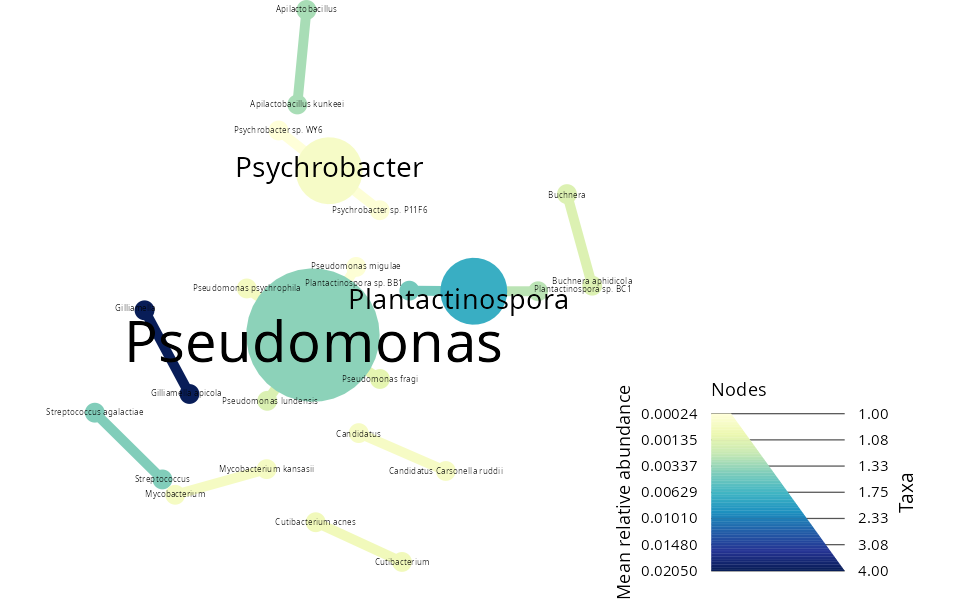
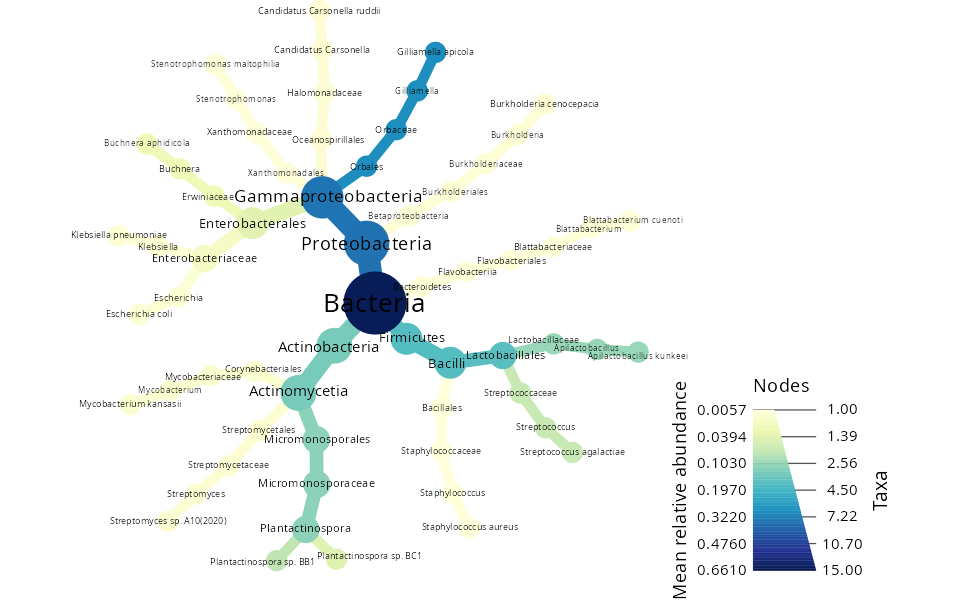
Keep metacoder taxonomy graphs as one tree.
Empty ranks were parsed as nodes named NA, and genus/species labels
without a shared kingdom became a forest. Drop those nodes and reattach
their children the way parse_phyloseq does, and add a root only when the
remaining ranks do not already share one parent.

Changed region(s): [[0.0625, 0.0, 0.9688, 1.0]]

diff --git a/.cursor/skills/aRchiteutis-plot-heattree/SKILL.md b/.cursor/skills/aRchiteutis-plot-heattree/SKILL.md
@@ -5,7 +5,7 @@ description: Draw a taxonomic heat tree with aRchiteutis df2heattree. Use for me
 
 # Heat tree
 
-`df2heattree()` is only `metacoder::heat_tree`. Node size is the number of taxa and colour is mean relative abundance. It stops when metacoder is not installed. There is no ggplot tree. Pass `tax` with Linnaean columns when the tidy labels are not already genus and species.
+`df2heattree()` is only `metacoder::heat_tree`. Node size is the number of taxa and colour is mean relative abundance. It stops when metacoder is not installed. There is no ggplot tree. The taxonomy graph is one tree: empty ranks are removed and their children reattached, the same way `metacoder::parse_phyloseq` drops taxa named `"NA"`. A `root` node is added only when the ranks would otherwise be a forest. Pass `tax` with Linnaean columns, or convert a phyloseq object with `phyloseq_to_metacoder()`, when the tidy labels are not already a full lineage.
 
 ```r
 library(aRchiteutis)

diff --git a/skills/aRchiteutis-plot-heattree/SKILL.md b/skills/aRchiteutis-plot-heattree/SKILL.md
@@ -5,7 +5,7 @@ description: Draw a taxonomic heat tree with aRchiteutis df2heattree. Use for me
 
 # Heat tree
 
-`df2heattree()` is only `metacoder::heat_tree`. Node size is the number of taxa and colour is mean relative abundance. It stops when metacoder is not installed. There is no ggplot tree. Pass `tax` with Linnaean columns when the tidy labels are not already genus and species.
+`df2heattree()` is only `metacoder::heat_tree`. Node size is the number of taxa and colour is mean relative abundance. It stops when metacoder is not installed. There is no ggplot tree. The taxonomy graph is one tree: empty ranks are removed and their children reattached, the same way `metacoder::parse_phyloseq` drops taxa named `"NA"`. A `root` node is added only when the ranks would otherwise be a forest. Pass `tax` with Linnaean columns, or convert a phyloseq object with `phyloseq_to_metacoder()`, when the tidy labels are not already a full lineage.
 
 ```r
 library(aRchiteutis)

diff --git a/README.md b/README.md
@@ -108,7 +108,7 @@ Figures below are rendered from the bundled honey-bee brood reports.
 
 ### Taxonomy
 
-`df2heattree()` — metacoder heat tree. Node size is the number of taxa, colour is mean relative abundance. The function stops when \pkg{metacoder} is not installed.
+`df2heattree()` — metacoder heat tree. Node size is the number of taxa, colour is mean relative abundance. Empty ranks are dropped and their children reattached, so the taxonomy is one tree. The function stops when \pkg{metacoder} is not installed.
 
 <img src="img/heattree.png" alt="Taxonomic heat tree" width="720">
 
